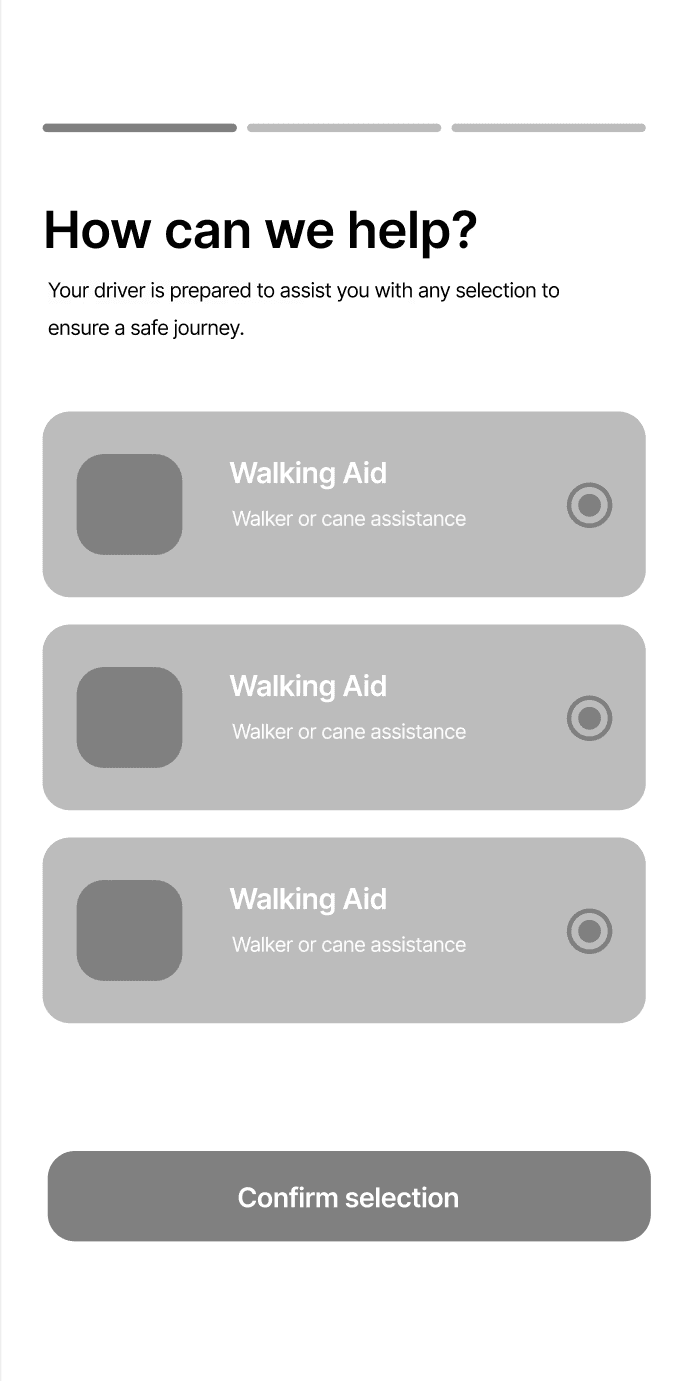
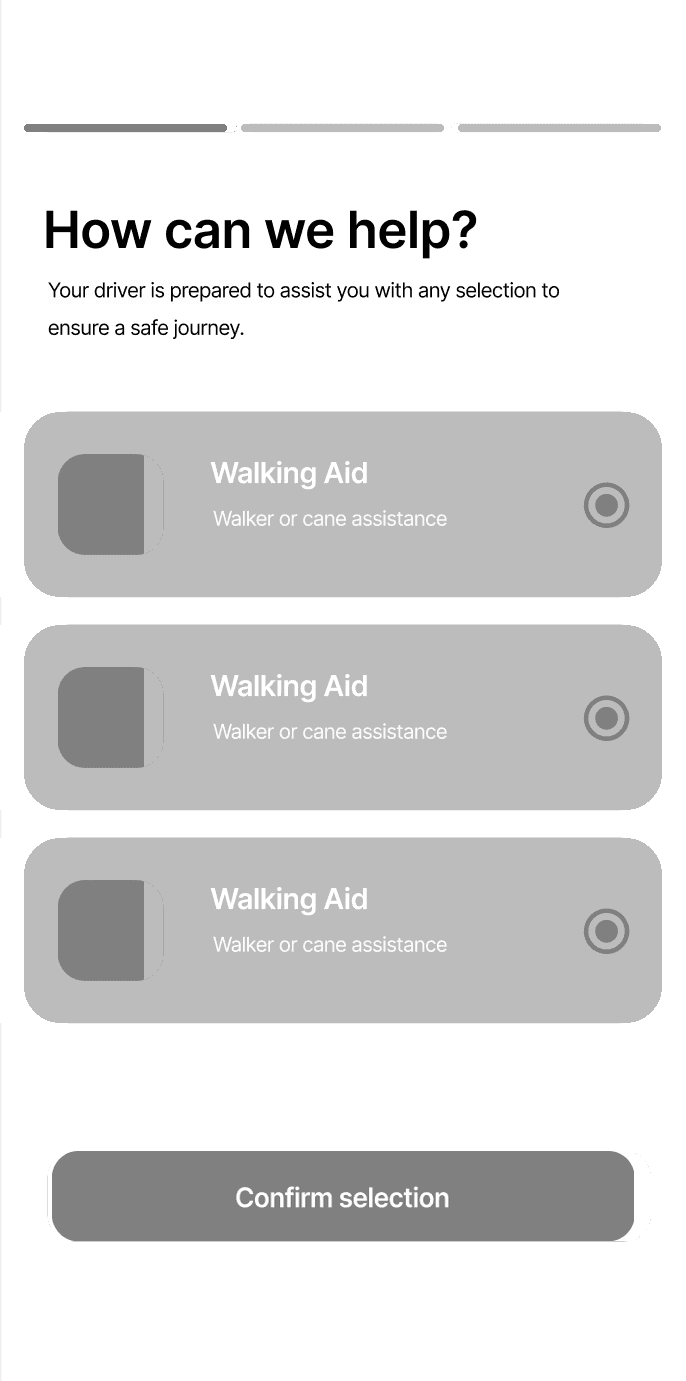
Widen critique cards and lengthen connector lines (#313)
Stretch the Uber Med feedback wireframe option cards and progress
gaps slightly, and lengthen the annotation connector lines to match
the reference composition.

diff --git a/css/main.css b/css/main.css
@@ -4403,7 +4403,7 @@ p {
   --critique-phone-width: min(34%, 13.25rem);
   --critique-phone-half: calc(var(--critique-phone-width) / 2);
   --critique-phone-height: calc(var(--critique-phone-width) * 2.02 + 0.5rem);
-  --critique-gap: 1.65rem;
+  --critique-gap: 1.95rem; /* slightly longer connector lines */
   position: relative;
   width: min(100%, 46rem);
   margin-inline: auto;
